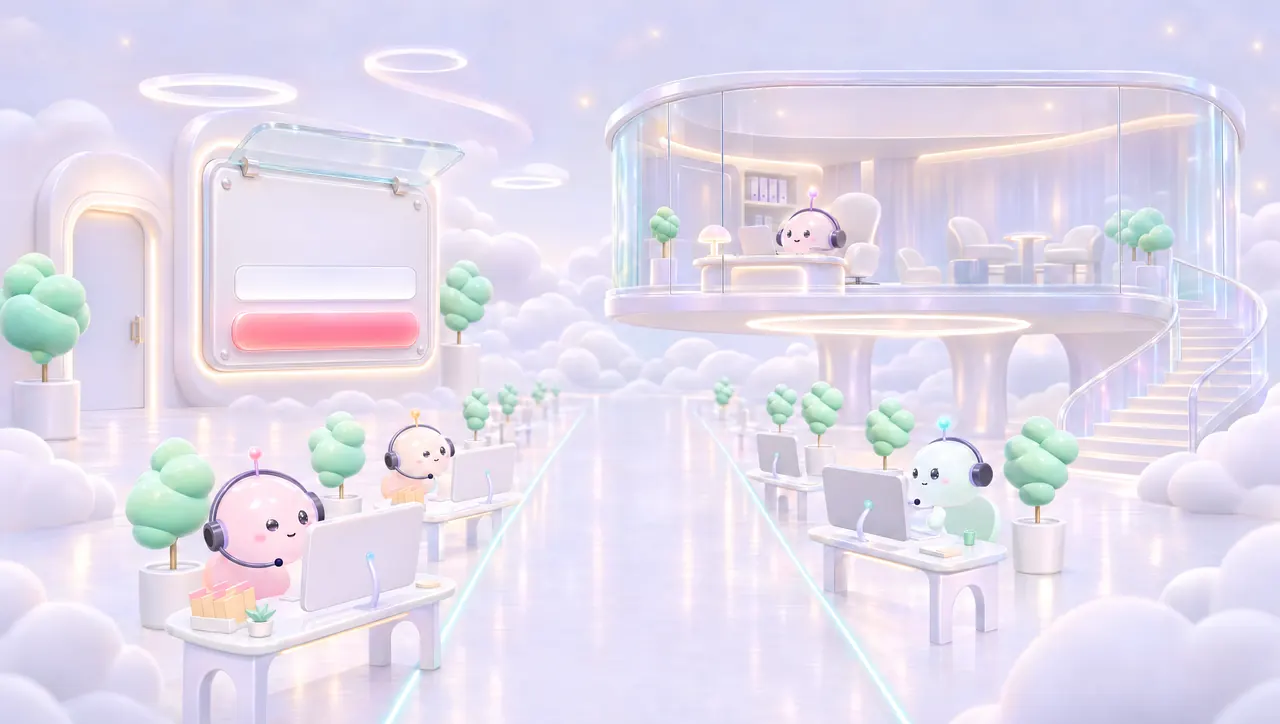
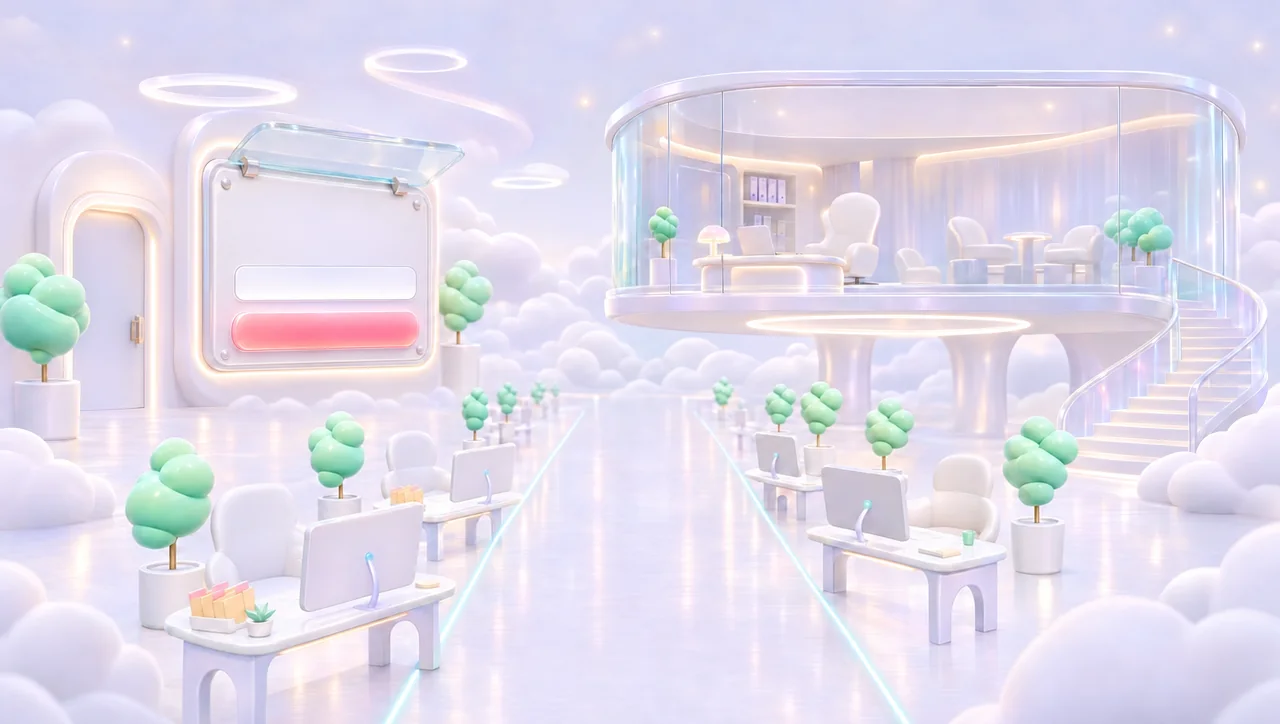
Portal: teammates are floating heads, bigger Pip, bubble under him
- The scene pictures no longer have Higgsfield's bodied characters (11 pictures cleaned
  with GPT Image 2.6, composited onto the originals so only the removed parts changed).
- Teammates are the original rigged floating heads from face(), on the floor and at their
  own desk; the colour-variant pictures and cut-outs are gone.
- Pip is about 40% bigger and his bubble sits right under him.
- tests/portal-floor/demo.py builds a click-through copy with the fake backend inside.

Claude-Session: https://claude.ai/code/session_01CLCbQGAap1nxMwzSvT6doE

diff --git a/public/portal-office.js b/public/portal-office.js
@@ -21,14 +21,14 @@ function createOffice(THREE, X, opts) {
   // ---------- the scenes, in percent of each picture ----------
   // pip: where Pip floats (x, y of his centre, w = his width). focus: where a glide into this scene aims.
   // screen: the monitor's four corners, for a teammate's screen. seats: where teammates sit on the floor.
-  const PIP_K = 1.6; // his canvas is wider than he is: the camera leaves room for a hop and a wave
+  const PIP_K = 2.25; // his canvas is wider than he is: the camera leaves room for a hop and a wave
   const SCENES = {
     home: { plate: "home-empty", pip: [50, 54, 8.2], focus: [50, 50], halos: [[24.5, 14.5, 15], [77.5, 14.5, 15], [34.7, 21.5, 7], [67.8, 21.5, 7], [42, 25.6, 4], [59.5, 25.6, 4]] },
-    desk: { plate: (c) => "desk-" + c, pip: [73, 17, 6.5], focus: [46, 42], screen: [[28.4, 24.0], [64.0, 23.8], [63.6, 58.9], [28.2, 59.4]], halos: [[30.5, 12.2, 10], [86.5, 12.2, 10]] },
-    deskNeeds: { plate: (c) => "setup-" + c, pip: [40.5, 47.5, 10.5], focus: [60, 40], screen: [[51.7, 21.2], [80.4, 20.6], [79.8, 52.6], [52.0, 53.6]], halos: [[30, 11, 10], [77, 11, 10]] },
-    deskCut: { plate: (c) => "cables-" + c, pip: [66, 38, 8], focus: [36, 55], float: [79, 21, 25], halos: [[15, 11, 12], [80, 11, 12]] },
-    deskPaused: { plate: (c) => "paused-" + c, pip: [50, 40, 7], focus: [26, 50], float: [50, 76, 23], halos: [[23, 11, 12], [75, 11, 12]] },
-    letgo: { plate: (c) => "letgo-" + c, pip: [41, 37, 7.5], focus: [58, 45], halos: [[23, 9, 12], [76, 9, 12]] },
+    desk: { plate: "desk", mate: [11, 52, 25], pip: [73, 17, 6.5], focus: [46, 42], screen: [[28.4, 24.0], [64.0, 23.8], [63.6, 58.9], [28.2, 59.4]], halos: [[30.5, 12.2, 10], [86.5, 12.2, 10]] },
+    deskNeeds: { plate: "setup", mate: [26, 40, 13], pip: [41, 52, 8], focus: [60, 40], screen: [[51.7, 21.2], [80.4, 20.6], [79.8, 52.6], [52.0, 53.6]], halos: [[30, 11, 10], [77, 11, 10]] },
+    deskCut: { plate: "cables", mate: [17, 38, 16], pip: [66, 38, 8], focus: [36, 55], float: [79, 28, 24], halos: [[15, 11, 12], [80, 11, 12]] },
+    deskPaused: { plate: "paused", mate: [24.5, 47, 11], pip: [50, 40, 7], focus: [26, 50], float: [50, 76, 23], halos: [[23, 11, 12], [75, 11, 12]] },
+    letgo: { plate: "letgo", mate: [75, 45, 9], pip: [41, 37, 7.5], focus: [58, 45], halos: [[23, 9, 12], [76, 9, 12]] },
     front: { plate: "front", pip: [47.5, 41, 8], focus: [45, 52], halos: [[28.5, 3, 12], [55, 10, 12]] },
     meter: { plate: "meter-empty", pip: [84, 47, 9.5], focus: [46, 45], halos: [[11.8, 15.1, 15.8], [33.2, 17.4, 10.4]], tube: [43.4, 16.2, 5.6, 45.4] },
     contract: { plate: "contract", pip: [31, 44, 13], focus: [55, 50], halos: [[24, 12, 14], [77, 12, 14]] },
@@ -65,8 +65,9 @@ function createOffice(THREE, X, opts) {
     if (cfg.tube) { const t = document.createElement("div"); t.className = "sc-tube"; t.style.cssText = `--x:${cfg.tube[0]}%;--y:${cfg.tube[1]}%;--w:${cfg.tube[2]}%;--h:${cfg.tube[3]}%`; t.innerHTML = `<b class="sc-liquid"><s></s>${Array.from({ length: 10 }, (_, k) => `<i style="--x:${10 + (k * 23) % 75}%;--s:${4 + (k % 4)}px;--t:${3 + (k % 4)}s;--d:-${k * 0.5}s"></i>`).join("")}</b>`; el.append(t); }
     const seats = document.createElement("div"); seats.className = "sc-seats"; el.append(seats);
     const pins = document.createElement("div"); pins.className = "sc-pins fl-tags"; el.append(pins);
+    let mate = null; if (cfg.mate) { mate = document.createElement("div"); mate.className = "sc-mate" + (key === "letgo" ? " going" : ""); mate.style.cssText = `--x:${cfg.mate[0]}%;--y:${cfg.mate[1]}%;--w:${cfg.mate[2]}%`; el.append(mate); }
     const pipSlot = document.createElement("div"); pipSlot.className = "sc-pip"; pipSlot.style.cssText = `--x:${cfg.pip[0]}%;--y:${cfg.pip[1]}%;--w:${(cfg.pip[2] * PIP_K).toFixed(2)}%`; el.append(pipSlot);
-    const s = { id, key, cfg, el, img, seats, pins, pipSlot, decoded: img.decode().catch(() => null) };
+    const s = { id, key, cfg, el, img, seats, pins, pipSlot, mate, decoded: img.decode().catch(() => null) };
     root.append(el); scenes.set(id, s); return s;
   }
   const plateOf = (key) => { const p = SCENES[key].plate; return typeof p === "function" ? p(deskColor) : p; };
@@ -96,8 +97,7 @@ function createOffice(THREE, X, opts) {
   }
 
   // ---------- teammates on the floor ----------
-  const POSE = { work: "work", type: "work", idle: "work", scratch: "work", build: "work", sleep: "sleep", wave: "wave" };
-  function syncSeats(home) {
+    function syncSeats(home) {
     const list = model.agents.filter((a) => a.look !== "open").slice(0, SEATS.length);
     const keep = new Set();
     list.forEach((a, i) => {
@@ -105,15 +105,16 @@ function createOffice(THREE, X, opts) {
       let g = home.seats.querySelector(`[data-id="${CSS.escape(a.id)}"]`);
       if (!g) {
         g = document.createElement("div"); g.className = "sc-ag"; g.dataset.id = a.id;
-        g.innerHTML = `<i class="sc-glow"></i><img class="sc-body" alt="" decoding="async"><b class="sc-q" aria-hidden="true">?</b><span class="sc-z" aria-hidden="true"><i>z</i><i>z</i><i>z</i></span>`;
+        g.innerHTML = `<i class="sc-glow"></i><span class="sc-face"></span><b class="sc-q" aria-hidden="true">?</b><span class="sc-z" aria-hidden="true"><i>z</i><i>z</i><i>z</i></span>`;
         const fg = document.createElement("img"); fg.className = "sc-fg"; fg.alt = ""; fg.decoding = "async"; g._fg = fg;
         g.addEventListener("click", () => opts.onPick && opts.onPick(a.id)); g.addEventListener("pointerenter", () => hover(a.id));
         home.seats.append(g, fg);
       }
       g.style.cssText = `--x:${seat.x}%;--b:${seat.b}%;--h:${seat.h}%;--d:-${(i * 0.9).toFixed(1)}s`;
       g.classList.toggle("flip", seat.flip);
-      const pose = g._wave && performance.now() < g._wave ? "wave" : POSE[a.look] || "work";
-      const want = ART + "agent-" + pose + "-" + c + ".webp"; const body = g.querySelector(".sc-body"); if (body.getAttribute("src") !== want) body.src = want;
+      // the teammate is the original Pip-family floating head from portal.html (face()), never a redrawn one
+      const slot = g.querySelector(".sc-face"); if (a.face && slot._key !== a.faceKey) { slot.replaceChildren(a.face); slot._key = a.faceKey; }
+      const f = slot.firstElementChild; if (f) f.classList.toggle("is-paused", a.look === "sleep");
       for (const k of ["needs", "paused", "build", "live", "ready"]) g.classList.toggle("k-" + k, a.kind === k || (k === "needs" && a.light === "needs") || (k === "build" && a.look === "build") || (k === "paused" && a.look === "sleep"));
       g._fg.src = src(home.cfg.plate); g._fg.style.clipPath = "polygon(" + seat.fg.map(([x, y]) => x + "% " + y + "%").join(",") + ")";
       g.style.zIndex = String(10 + Math.round(seat.b));
@@ -124,8 +125,8 @@ function createOffice(THREE, X, opts) {
   }
   function hover(id) {
     const home = homeScene(); const g = home && home.seats.querySelector(`[data-id="${CSS.escape(id)}"]`); if (!g || g.classList.contains("k-paused") || g.classList.contains("k-build")) return;
-    if (g._wave && performance.now() < g._wave) return;
-    g._wave = performance.now() + 1500; syncSeats(home); clearTimeout(g._wt); g._wt = setTimeout(() => syncSeats(home), 1550);
+    const f = g.querySelector(".tmf"); if (!f || f.classList.contains("is-hov") || RM()) return;
+    f.style.setProperty("--hd", "0s"); f.classList.add("is-hov"); clearTimeout(g._wt); g._wt = setTimeout(() => f.classList.remove("is-hov"), 1700);
   }
   const homeScene = () => sceneEl("home", SCENES.home.plate);
 
@@ -138,7 +139,7 @@ function createOffice(THREE, X, opts) {
     list.forEach((a, i) => { const el = (model.tags || new Map()).get(a.id); if (!el) return; const s = SEATS[i]; pin(home, el, s.tag[0], Math.max(s.tag[1], tagMin), "tag"); });
     const more = model.agents.filter((a) => a.look !== "open").length - list.length;
     if (more > 0) { const m = document.createElement("span"); m.className = "sc-more card"; m.textContent = "+" + more + " more down the aisle"; pin(home, m, 50, 40.5, "tag"); }
-    if (model.bubble) pin(home, model.bubble, SCENES.home.pip[0], SCENES.home.pip[1] + SCENES.home.pip[2] * 0.95, "say");
+    if (model.bubble) { const P = SCENES.home.pip, canH = P[2] * PIP_K * (box.w / box.h); pin(home, model.bubble, P[0], P[1] + canH * 0.33, "say"); } // tucked right under Pip, its tail on him
   }
   function pin(s, el, x, y, kind) { el.classList.add("sc-pin", "pin-" + kind); el.style.setProperty("--px", x + "%"); el.style.setProperty("--py", y + "%"); s.pins.append(el); }
   const stack = document.createElement("div"); stack.className = "sc-stack"; root.append(stack); // a phone's cards, under its scene window
@@ -171,6 +172,7 @@ function createOffice(THREE, X, opts) {
   async function show(key, plateName, how = {}) {
     measure();
     const next = sceneEl(key, plateName || plateOf(key));
+    if (next.mate) { const f = how.mate && opts.face ? opts.face(how.mate) : null; next.mate.replaceChildren(...(f ? [f] : [])); if (f) f.classList.toggle("is-paused", key === "deskPaused"); }
     if (key === "home") { syncSeats(next); syncPins(next); } else syncStationPins(next, key);
     if (cur !== next) layer.classList.remove("on");
     if (cur === next) { place(next); pipTo(next); return; }
@@ -284,10 +286,10 @@ function createOffice(THREE, X, opts) {
       const key = deskVariant === "paused" ? "deskPaused" : deskVariant === "cut" ? "deskCut" : deskVariant === "needs" ? "deskNeeds" : "desk";
       const seat = SEATS[model.agents.filter((x) => x.look !== "open").indexOf(a)];
       mode = "desk"; focusId = id; letGoOn = false;
-      return show(key, null, { at: seat ? [seat.x, seat.b - seat.h / 2] : null }).then(() => { settleAt = performance.now(); fitScreen(); });
+      return show(key, null, { at: seat ? [seat.x, seat.b - seat.h / 2] : null, mate: id }).then(() => { settleAt = performance.now(); fitScreen(); });
     },
-    letGo(id) { /* the goodbye plays when "Let go" is wired: show the let-go scene, then the floor without them */ const a = model.agents.find((x) => x.id === id); if (!a) return; deskColor = colorName(a.hex); show("letgo", null, { quick: true }); },
-    letGoPreview(id, on) { if (on === letGoOn) return; letGoOn = !!on; const a = model.agents.find((x) => x.id === id); if (!a) return; if (on) { deskColor = colorName(a.hex); show("letgo", null, { quick: true }); } else if (focusId) api.desk(focusId, deskVariant); },
+    letGo(id) { /* the goodbye plays when "Let go" is wired: show the let-go scene, then the floor without them */ const a = model.agents.find((x) => x.id === id); if (!a) return; deskColor = colorName(a.hex); show("letgo", null, { quick: true, mate: id }); },
+    letGoPreview(id, on) { if (on === letGoOn) return; letGoOn = !!on; const a = model.agents.find((x) => x.id === id); if (!a) return; if (on) { deskColor = colorName(a.hex); show("letgo", null, { quick: true, mate: id }); } else if (focusId) api.desk(focusId, deskVariant); },
     // papers come out of the folders as HTML; the scene only steps back
     folderOut() { return Promise.resolve(); }, folderIn() {}, hoverFolder() {}, swapFolder() {},
     hold(on) { held = !!on; kick(); },
@@ -325,14 +327,14 @@ function CSS_TEXT() { return `
 .sc-root.warn .sc-tube .sc-liquid{background:linear-gradient(180deg,rgba(255,226,150,.95),rgba(242,176,42,.9));box-shadow:inset 0 0 18px rgba(255,255,255,.55),0 0 26px rgba(242,176,42,.5)}
 /* teammates at their seats */
 .sc-seats{position:absolute;inset:0}
-.sc-ag{position:absolute;left:var(--x);top:var(--b);height:var(--h);aspect-ratio:.86;transform:translate(-50%,-100%);cursor:pointer}
-.sc-ag .sc-body{position:absolute;inset:0;width:100%;height:100%;object-fit:contain;object-position:50% 100%;transform-origin:50% 100%;animation:sc-bob 3.8s ease-in-out infinite;animation-delay:var(--d)}
-.sc-ag.flip .sc-body{transform:scaleX(-1)}
-.sc-ag.flip .sc-body{animation-name:sc-bob-f}
-@keyframes sc-bob{0%,100%{transform:translateY(0) scale(1,1)}50%{transform:translateY(-2.5%) scale(.993,1.012)}}
-@keyframes sc-bob-f{0%,100%{transform:scaleX(-1) translateY(0) scale(1,1)}50%{transform:scaleX(-1) translateY(-2.5%) scale(.993,1.012)}}
-.sc-ag.k-paused .sc-body{animation-duration:6s}
-.sc-glow{position:absolute;left:50%;bottom:-6%;width:150%;height:40%;transform:translateX(-50%);border-radius:50%;background:radial-gradient(closest-side,rgba(242,176,42,.55),rgba(242,176,42,0));opacity:0;transition:opacity .4s;animation:sc-pulse 2s ease-in-out infinite}
+.sc-ag{position:absolute;left:var(--x);top:calc(var(--b) - var(--h) * .2);height:calc(var(--h) * .7);aspect-ratio:320/272;transform:translate(-50%,-100%);cursor:pointer}
+.sc-face{position:absolute;inset:0;display:block;animation:sc-float 4.6s ease-in-out infinite;animation-delay:var(--d)}
+.sc-face .tmf{width:100%;height:100%}
+@keyframes sc-float{0%,100%{translate:0 0}50%{translate:0 -5%}}
+.sc-ag.k-paused .sc-face{animation-duration:7s}
+.sc-ag.k-paused .tmf .rg-lid{transform:scaleY(1)!important}
+.sc-ag.k-build .sc-face{filter:saturate(.2) brightness(1.15) drop-shadow(0 0 8px rgba(155,134,255,.9));opacity:.62}
+.sc-glow{position:absolute;left:50%;bottom:-14%;width:120%;height:34%;transform:translateX(-50%);border-radius:50%;background:radial-gradient(closest-side,rgba(242,176,42,.55),rgba(242,176,42,0));opacity:0;transition:opacity .4s;animation:sc-pulse 2s ease-in-out infinite}
 .sc-ag.k-needs .sc-glow{opacity:1}
 @keyframes sc-pulse{0%,100%{transform:translateX(-50%) scale(.85);opacity:.55}50%{transform:translateX(-50%) scale(1.08);opacity:1}}
 .sc-q{position:absolute;left:58%;top:-12%;font:italic 400 clamp(18px,2.6vw,40px)/1 "Instrument Serif",Georgia,serif;color:#ffb21f;text-shadow:0 2px 10px rgba(255,178,31,.45);opacity:0;animation:sc-q 2.2s ease-in-out infinite}
@@ -342,9 +344,13 @@ function CSS_TEXT() { return `
 .sc-z i{position:absolute;left:0;top:0;font:italic 400 clamp(11px,1.3vw,20px)/1 "Instrument Serif",Georgia,serif;color:#9b8ee8;animation:sc-zz 3s ease-in infinite;opacity:0}
 .sc-z i:nth-child(2){animation-delay:1s}.sc-z i:nth-child(3){animation-delay:2s}
 @keyframes sc-zz{0%{transform:translate(0,0) scale(.6);opacity:0}20%{opacity:1}100%{transform:translate(160%,-220%) scale(1.3);opacity:0}}
-.sc-ag.k-build .sc-body{filter:saturate(.2) brightness(1.15) drop-shadow(0 0 8px rgba(155,134,255,.9));opacity:.62;-webkit-mask:repeating-linear-gradient(180deg,#000 0 3px,rgba(0,0,0,.55) 3px 5px);mask:repeating-linear-gradient(180deg,#000 0 3px,rgba(0,0,0,.55) 3px 5px)}
 .sc-fg{position:absolute;inset:0;width:100%;height:100%;pointer-events:none}
 /* Pip */
+.sc-mate{position:absolute;left:var(--x);top:var(--y);width:var(--w);aspect-ratio:320/272;transform:translate(-50%,-50%);pointer-events:none;z-index:40;animation:sc-float 4.6s ease-in-out infinite}
+.sc-mate .tmf{width:100%;height:100%}
+.sc-mate .tmf.is-paused .rg-lid{transform:scaleY(1)!important}
+.sc-mate.going{animation:sc-going 3.2s ease-in-out infinite}
+@keyframes sc-going{0%,100%{opacity:.85;translate:0 0;filter:blur(0)}50%{opacity:.35;translate:0 -6%;filter:blur(1.5px) brightness(1.2)}}
 .sc-pip{position:absolute;left:var(--x);top:var(--y);width:var(--w);aspect-ratio:1;transform:translate(-50%,-50%);pointer-events:none;z-index:60}
 .sc-pip canvas{position:absolute;inset:0;width:100%;height:100%}
 .sc-pip.still{background:url(/portal-art/pip-calm.webp) center/contain no-repeat}

diff --git a/public/portal.html b/public/portal.html
@@ -1244,7 +1244,7 @@ function loadPart(name) {
   if (!PARTS[name]) PARTS[name] = new Promise((res, rej) => { const sc = document.createElement("script"); sc.src = "/" + name + ".js?v=" + PART_V; sc.async = true; sc.onload = res; sc.onerror = () => { delete PARTS[name]; rej(new Error(name)); }; document.head.append(sc); });
   return PARTS[name];
 }
-const PART_V = "7";
+const PART_V = "9";
 function loadThree() {
   if (!threeP) { const l = document.createElement("link"); l.rel = "modulepreload"; l.href = THREE_URL; l.integrity = THREE_SRI; l.crossOrigin = "anonymous"; document.head.append(l); threeP = import(THREE_URL); threeP.catch(() => { threeP = null; }); }
   return threeP;
@@ -2531,7 +2531,7 @@ async function startOffice() {
     const [THREE] = await Promise.all([loadThree(), loadPart("portal-office")]);
     await Promise.all([document.fonts.load("600 44px Geist"), document.fonts.load("italic 400 120px 'Instrument Serif'")]).catch(() => null);
     if (!FLOOR.X) FLOOR.X = threeAddons(THREE);
-    FLOOR.office = createOffice(THREE, FLOOR.X, { host: document.getElementById("office"), cssHost: document.getElementById("office"), reduce: reduced, onPick: (id) => openMate(id), onStation: (id) => openStation(id), onEntered: () => { FLOOR.entered = true; }, safeTop: () => { const r = document.querySelector(".fl-head"); return r ? r.getBoundingClientRect().bottom : 0; }, safeBottom: () => { const r = document.querySelector(".fl-roster"); return r ? innerHeight - r.getBoundingClientRect().top : 0; },
+    FLOOR.office = createOffice(THREE, FLOOR.X, { host: document.getElementById("office"), cssHost: document.getElementById("office"), reduce: reduced, onPick: (id) => openMate(id), onStation: (id) => openStation(id), face: (id) => { const a = S.data && S.data.agents.find((x) => x.spec_id === id); return a ? face(mateName(a), (a.role || "") + " " + a.name) : null; }, onEntered: () => { FLOOR.entered = true; }, safeTop: () => { const r = document.querySelector(".fl-head"); return r ? r.getBoundingClientRect().bottom : 0; }, safeBottom: () => { const r = document.querySelector(".fl-roster"); return r ? innerHeight - r.getBoundingClientRect().top : 0; },
       onReveal: (el) => { el.classList.add("on"); fitTargets(); setTimeout(fitTargets, 700); } });
     await FLOOR.office.ready; // every shader is compiled before the first frame, so the walk-in is smooth from the start
     document.documentElement.classList.add("office-live");
@@ -2976,7 +2976,9 @@ function renderFloor(opts = {}) {
   if (o) {
     const pipPoint = st === "paused" ? (ag.find(isPaused) || {}).spec_id : (ag.find((a) => youNeeds(a).length && !isPaused(a)) || {}).spec_id;
     o.sync({ dim: b.status === "disconnected", agents: ag.map((a, i) => { const L = looks.get(a.spec_id), p = propOf((a.role || "") + " " + a.name);
-      return { id: a.spec_id, look: L.look, light: L.light, kind: L.kind, variant: deskVariant(a), hex: hexOf(a), prop: p === "headset" || p === "glasses" ? "letters" : p || "letters", phone: p === "headset", sticky: L.kind === "needs" ? "Needs you: " + lowerFirst(youNeeds(a)[0]) : null, ph: i * 1.3 + 0.3 }; }),
+      const fk = colorOf(mateName(a)) + ":" + propOf((a.role || "") + " " + a.name), slot = FLOOR.faces || (FLOOR.faces = new Map()); // the same rigged head stays put between renders
+      if (!slot.has(a.spec_id) || slot.get(a.spec_id).k !== fk) slot.set(a.spec_id, { k: fk, el: face(mateName(a), (a.role || "") + " " + a.name) });
+      return { id: a.spec_id, face: slot.get(a.spec_id).el, faceKey: fk, look: L.look, light: L.light, kind: L.kind, variant: deskVariant(a), hex: hexOf(a), prop: p === "headset" || p === "glasses" ? "letters" : p || "letters", phone: p === "headset", sticky: L.kind === "needs" ? "Needs you: " + lowerFirst(youNeeds(a)[0]) : null, ph: i * 1.3 + 0.3 }; }),
       tags: [...tags.entries()], bubble: narrow() ? null : say, pipPoint: pipPoint || null, stations: Object.assign(stationModel(), { tags: [...stTags.entries()], priced: stageOf(d) === "priced" }), cards: sceneCards() });
     if (o.panel) o.panel(!!(S.desk && S.station) && !narrow());
     if (FLOOR.reenter) { FLOOR.reenter = false; o.enter(false); }

diff --git a/tests/portal-floor/demo.py b/tests/portal-floor/demo.py
@@ -1,0 +1,79 @@
+"""Builds a click-through copy of the Portal for a Claude artifact: the real page and parts, with the harness's fake
+backend answered inside the page, so nothing signs in and nothing reaches Supabase. Test data only (TEST Fork).
+
+    python3 demo.py /tmp/portal-demo [scenario] [role]
+
+Then publish every file in that folder as one artifact (index.html is the page).
+"""
+import json, os, re, shutil, sys
+sys.path.insert(0, os.path.dirname(__file__))
+import fx
+
+OUT = sys.argv[1] if len(sys.argv) > 1 else "/tmp/portal-demo"
+SCN = sys.argv[2] if len(sys.argv) > 2 else "mixed"
+ROLE = sys.argv[3] if len(sys.argv) > 3 else "owner"
+PUB = os.path.join(os.path.dirname(__file__), "..", "..", "public")
+
+shutil.rmtree(OUT, ignore_errors=True)
+os.makedirs(OUT + "/portal-art/sc")
+
+DATA = {
+    "me": fx.me(ROLE), "business": fx.business(SCN, ROLE), "usage": fx.usage(), "billing": fx.billing_status(SCN),
+    "activity": fx.BASE["activity"], "founder": fx.founder_businesses(),
+}
+
+SHIM = """<script>
+/* Demo only: the Portal's backend, answered inside the page from test data. Nothing leaves the page. */
+(() => {
+  const D = %s;
+  const SESSION = { access_token: "demo", user: { id: "demo", email: D.me.email } };
+  const ok = (j, st) => Promise.resolve(new Response(JSON.stringify(j), { status: st || 200, headers: { "content-type": "application/json" } }));
+  const real = window.fetch.bind(window);
+  window.fetch = (url, init) => {
+    url = String(url && url.url || url);
+    if (!/supabase\\.co/.test(url)) return real(url, init);
+    const u = new URL(url), p = u.pathname, fn = "/functions/v1/pip-portal", ops = "/functions/v1/pip-portal-ops";
+    if (p.startsWith(ops)) { const r = p.slice(ops.length); return ok(r === "/rpc/usage" ? D.usage : r === "/rpc/billing_status" ? D.billing : r === "/billing/start" ? { ok: true, url: "#card" } : { ok: true }); }
+    if (p.startsWith(fn)) {
+      const r = p.slice(fn.length);
+      if (r === "/me") return ok(D.me);
+      if (r === "/config") return ok({ ok: true, terms_url: "#terms" });
+      if (r === "/founder/businesses") return ok(D.founder);
+      const m = r.match(/^\\/business\\/[0-9a-f-]{36}(\\/.*)?$/);
+      if (m) { const sub = m[1] || "";
+        if (!sub && !(init && init.method === "POST")) return ok(D.business);
+        if (sub === "/activity") return ok({ items: D.activity });
+        if (sub.startsWith("/tools")) return ok({ tools: [{ toolkit: "square", name: "Square", about: "Payments and appointments" }, { toolkit: "quickbooks", name: "QuickBooks", about: "Accounting" }] });
+        if (sub === "/connect" || sub === "/connect-tool") return ok({ ok: true, url: "#connected" });
+      }
+      return ok({ ok: true });
+    }
+    return ok({});
+  };
+  window.supabase = { createClient: () => ({ auth: {
+    getSession: async () => ({ data: { session: SESSION } }), getUser: async () => ({ data: { user: SESSION.user } }),
+    onAuthStateChange: () => ({ data: { subscription: { unsubscribe() {} } } }),
+    signOut: async () => ({}), signInWithOtp: async () => ({}), verifyOtp: async () => ({ data: { session: SESSION } }),
+  } }) };
+})();
+</script>
+""" % json.dumps(DATA)
+
+html = open(PUB + "/portal.html").read()
+html = re.sub(r'<meta http-equiv="Content-Security-Policy"[^>]*>\n?', "", html)  # the artifact has its own policy
+html = re.sub(r'<script src="https://cdn\.jsdelivr\.net/npm/@supabase/supabase-js[^>]*></script>\n?', "", html)
+html = html.replace("<script>", SHIM + "<script>", 1) if "<script>" in html else html
+html = html.replace('"/portal-art/', '"portal-art/').replace("url(/portal-art/", "url(portal-art/")
+html = html.replace('sc.src = "/" + name + ".js?v=" + PART_V', 'sc.src = name + ".js?v=" + PART_V')
+html = html.replace("<title>", "<title>Pip Portal · click-through · ", 1)
+assert 'sc.src = name + ".js' in html, "loadPart path not found"
+open(OUT + "/index.html", "w").write(html)
+
+off = open(PUB + "/portal-office.js").read().replace('"/portal-art/sc/"', '"portal-art/sc/"').replace("url(/portal-art/", "url(portal-art/")
+open(OUT + "/portal-office.js", "w").write(off)
+shutil.copy(PUB + "/portal-pip.js", OUT + "/portal-pip.js")
+for f in os.listdir(PUB + "/portal-art"):
+    if f.endswith(".webp"): shutil.copy(PUB + "/portal-art/" + f, OUT + "/portal-art/" + f)
+for f in os.listdir(PUB + "/portal-art/sc"):
+    if f.endswith(".webp") and not f.startswith("agent-"): shutil.copy(PUB + "/portal-art/sc/" + f, OUT + "/portal-art/sc/" + f)
+print(OUT, len(os.listdir(OUT + "/portal-art/sc")), "scene files")

diff --git a/docs/portal-backend.md b/docs/portal-backend.md
@@ -118,9 +118,9 @@ Bump `PART_V` in portal.html when either part changes in a way the page depends 
 
 `portal-office.js` no longer renders a 3D room. Each place (the floor, every station, a teammate's desk in four moods,
 the goodbye) is one cleaned Higgsfield picture in `public/portal-art/sc/` (2400px, plus a `-s` 1280px copy for smaller
-screens). Teammates are cut-outs in their own colour (`agent-{work,sleep,wave}-{colour}.webp`), seated over an empty
-floor with a clipped copy of the floor drawn in front of them; a desk close-up uses a copy of the scene recoloured to
-that teammate. Moving around is a zoom and cross-fade the browser's compositor runs on its own, so it stays at full
+screens). The pictures have no characters in them. Teammates are the original Pip-family floating heads from portal.html
+(`face()`, the same rigged art as the Marketplace), placed live: at their seats on the floor (with a clipped copy of the
+floor drawn in front), and at their own desk in a close-up. Moving around is a zoom and cross-fade the browser's compositor runs on its own, so it stays at full
 frame rate. Pip is the only live 3D, from his original engine on one small canvas.
 
 Everything you click is HTML from portal.html: tags, Pip's bubble, and `sceneCards()` (the cards and labels inside each
